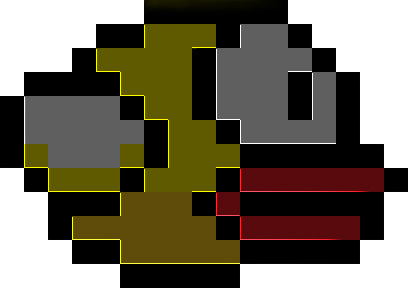
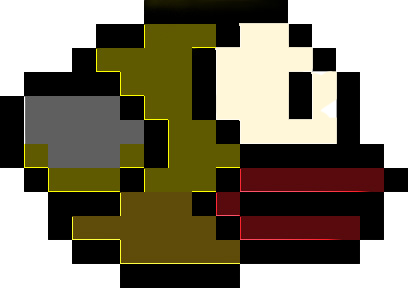
restructured directory, added new winter theme, and local highscore storage

Changed region(s): [[0.5294, 0.0625, 0.8235, 0.5]]

diff --git a/styles/style.css b/styles/style.css
@@ -1,5 +1,5 @@
 *{
-  font-family: Arial, Helvetica, sans-serif;
+  font-family: Consolas, Arial, Helvetica, sans-serif;
   margin: 0;
   padding: 0;
   border: none;
@@ -56,22 +56,41 @@ body {
   height: 100%;
   width: 100%;
   display: none;
-  flex-direction: column;
   justify-content: space-evenly;
   align-items: center;
+  flex-wrap: wrap;
+  overflow-x: hidden;
+  overflow-y: scroll;
   background-image: linear-gradient(to bottom right, rgba(0, 0, 100, 0.5), rgba(0, 100, 0, 0.5));
   backdrop-filter: blur(5px);
+}
+
+#options-container::-webkit-scrollbar {
+  width: 0.2rem;
+}
+ 
+#options-container::-webkit-scrollbar-track {
+  box-shadow: inset 0 0 6px rgba(0, 0, 0, 0.3);
+}
+ 
+#options-container::-webkit-scrollbar-thumb {
+  background-image: linear-gradient(to bottom, rgb(109, 0, 0), rgb(0, 131, 114));
+  border-radius: 2rem;
+}
+#options-container::-webkit-scrollbar-button {
+  width: 0;
 }
 
 #options-container div {
   height: 25%;
   width: 80%;
   border-radius: 1.2rem;
+  margin-bottom: 1rem;
   display: flex;
   justify-content: center;
   align-items: center;
   font-size: 2.5rem;
-  color: white;
+  font-weight: 700;
   background-size: cover;
   background-position: bottom;
   transition-duration: 0.5s;
@@ -84,13 +103,20 @@ body {
 }
 
 #default {
-  background-image: url('./assets/default/flappybirdbg.png');
+  background-image: url('../assets/default/flappybirdbg.png');
+  color: black;
 }
 #alien {
-  background-image: url('./assets/alien/flappybirdbg.png');
+  background-image: url('../assets/alien/flappybirdbg.png');
+  color: white;
 }
 #night {
-  background-image: url('./assets/night/flappybirdbg.png');
+  background-image: url('../assets/night/flappybirdbg.png');
+  color: white;
+}
+#winter {
+  background-image: url('../assets/winter/flappybirdbg.png');
+  color: black;
 }
 
 #btn-container {

diff --git a/scripts/script.js b/scripts/script.js
@@ -36,7 +36,7 @@ canvasEl2.width = canvasWidth;
 
 
 let itemsLoaded = 0, score = 0, highestScore = 0;
-
+if(window.localStorage.highestScore) highestScore = window.localStorage.highestScore;
 
 let factor = 1;
 
@@ -122,8 +122,9 @@ function drawHeadLight(x, y, context)
 {
     context.beginPath();
     context.moveTo(x, y);
-    context.lineTo(canvasEl.width, y + 6 * rootSize);
     context.lineTo(canvasEl.width, y - 6 * rootSize);
+    context.lineTo(canvasEl.width, y + 6 * rootSize);
+    context.lineTo(x, y + rootSize);
     context.lineTo(x, y);
     context.fillStyle = birdHeadLightGradient;
     context.fill();
@@ -144,7 +145,7 @@ function update()
     context2.drawImage(birdImg, bird.x, bird.y, bird.width, bird.height);
 
     // drawing headlight from bird
-    if(modes[currMode].showHeadLight) drawHeadLight(bird.x + bird.width - rootSize, bird.y + bird.height/2, context2);
+    if(modes[currMode].showHeadLight) drawHeadLight(bird.x + 0.6 * bird.width, bird.y, context2);
 
     // checking first pipe
     let currNode = pipeList.head;
@@ -262,7 +263,11 @@ function resetGame() {
     
 
     // showing highest score
-    if(score > highestScore) highestScore = score;
+    if(score > highestScore)
+    {
+        highestScore = score;
+        window.localStorage.setItem("highestScore", highestScore);
+    }
     context.font = `${1.5 * rootSize}px Arial`;
     context.fillStyle = "#ffffff";
     context.textAlign = "center";

diff --git a/index.html b/index.html
@@ -4,7 +4,7 @@
     <meta charset="UTF-8" />
     <meta name="viewport" content="width=device-width, initial-scale=1.0" />
     <title>Flappy Bird</title>
-    <link rel="stylesheet" href="style.css" />
+    <link rel="stylesheet" href="./styles/style.css" />
   </head>
   <body>
     <!-- <div class="background"></div> -->
@@ -13,6 +13,7 @@
       <canvas id="canvas2"></canvas>
       <div id="options-container">
           <div id="default">Default</div>
+          <div id="winter">Winter</div>
           <div id="alien">Alien</div>
           <div id="night">Night</div>
       </div>
@@ -23,11 +24,11 @@
       <div id="theme-button">Change Theme</div>
     </div>
   </body>
-  <script src="linkedList.js"></script>
-  <script src="particle.js"></script>
-  <script src="gameData.js"></script>
-  <script src="select-theme.js"></script>
-  <script src="script.js"></script>
+  <script src="./scripts/linkedList.js"></script>
+  <script src="./scripts/particle.js"></script>
+  <script src="./scripts/gameData.js"></script>
+  <script src="./scripts/select-theme.js"></script>
+  <script src="./scripts/script.js"></script>
   </html>
 
   

diff --git a/scripts/select-theme.js b/scripts/select-theme.js
@@ -2,6 +2,7 @@ let optionsContainer = document.getElementById("options-container");
 let defaultContainer = document.getElementById("default");
 let alienContainer = document.getElementById("alien");
 let nightContainer = document.getElementById("night");
+let winterContainer = document.getElementById("winter");
 
 function showOptions()
 {
@@ -20,4 +21,9 @@ nightContainer.addEventListener('click', function() {
     window.localStorage.setItem('selectedTheme', 'night');
     location.reload();
 });
+winterContainer.addEventListener('click', function()
+{
+    window.localStorage.setItem('selectedTheme', 'winter');
+    location.reload();
+})
 

diff --git a/scripts/particle.js b/scripts/particle.js
@@ -1,6 +1,7 @@
 function explode(x, y, canvasWidth, canvasHeight, color, color2, context)
 {
     let maxSpeed = 2.5;
+    let gravity = 0.05;
     let particles = [];
     let particleCount = 100;
     let maxRadius = 3;
@@ -26,6 +27,7 @@ function explode(x, y, canvasWidth, canvasHeight, color, color2, context)
             if(i < 70) context.fillStyle = `${color}`;
             else context.fillStyle = color2;
             context.beginPath();
+            particle.vy += gravity;
             particle.x += particle.vx;
             particle.y += particle.vy;
             if(particle.vx > 0) particle.vx -= 0.01;

diff --git a/scripts/gameData.js b/scripts/gameData.js
@@ -28,6 +28,16 @@ let modes = {
         showHeadLight: true,
         color1: "#cc9706",
         color2: "#8f0c03"
+    },
+    winter: {
+        birdPath: "./assets/winter/flappybird.png",
+        backgroundPath: "./assets/winter/flappybirdbg.png",
+        bottomPipePath: "./assets/winter/bottompipe.png",
+        topPipePath: "./assets/winter/toppipe.png",
+        floorPath: "./assets/winter/floor.png",
+        showHeadLight: false,
+        color1: "#2596be",
+        color2: "#873e23"
     }
 }
 
